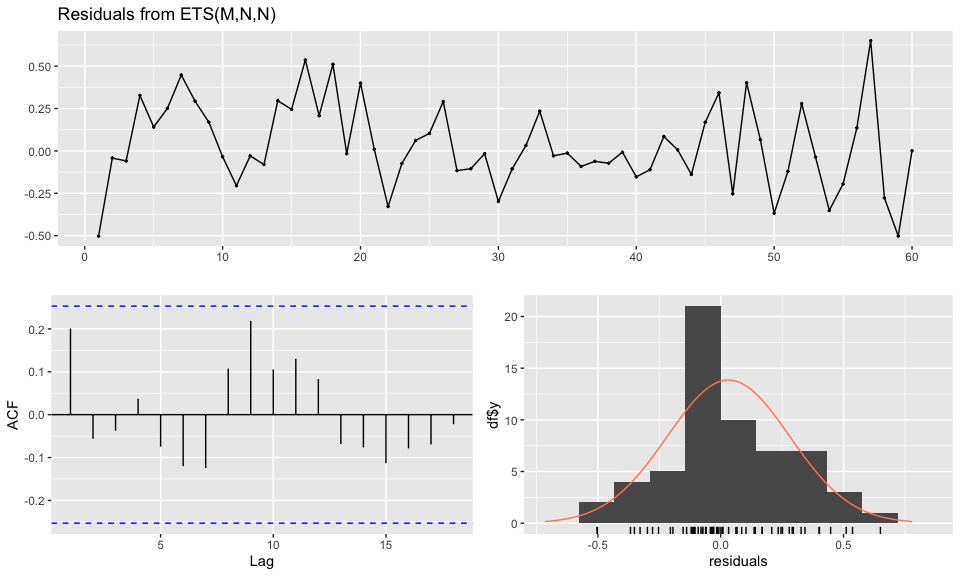
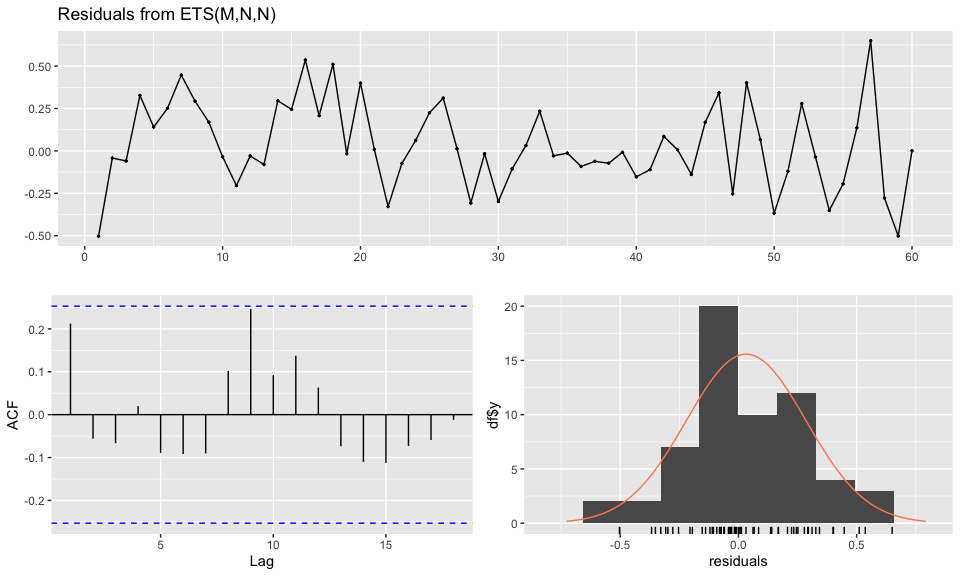
daily update

diff --git a/kenai_sockeye_counts.md b/kenai_sockeye_counts.md
@@ -2,7 +2,7 @@ Kenai River Sockeye Salmon Count Forecasting: Daily Fish Count
 Predictions
 ================
 Joe Hicks
-updated: 2025-07-25
+updated: 2025-07-29
 
 - [Summary](#summary)
 - [Data Loading & Preparation](#data-loading--preparation)
@@ -148,13 +148,13 @@ peak_days |>
 
 | peak_rank | date_2025  | julian_day | avg_count | peak_category  |
 |----------:|:-----------|-----------:|----------:|:---------------|
-|         1 | 2025-07-21 |        202 |     97617 | Highest Peaks  |
-|         2 | 2025-07-20 |        201 |     96731 | Highest Peaks  |
-|         3 | 2025-07-26 |        207 |     91785 | Highest Peaks  |
-|         4 | 2025-07-27 |        208 |     81109 | Highest Peaks  |
-|         5 | 2025-07-28 |        209 |     72584 | Highest Peaks  |
-|         6 | 2025-07-29 |        210 |     71401 | High Peaks     |
-|         7 | 2025-07-25 |        206 |     71100 | High Peaks     |
+|         1 | 2025-07-27 |        208 |    104844 | Highest Peaks  |
+|         2 | 2025-07-26 |        207 |    103516 | Highest Peaks  |
+|         3 | 2025-07-21 |        202 |     97617 | Highest Peaks  |
+|         4 | 2025-07-20 |        201 |     96731 | Highest Peaks  |
+|         5 | 2025-07-25 |        206 |     78935 | Highest Peaks  |
+|         6 | 2025-07-28 |        209 |     72584 | High Peaks     |
+|         7 | 2025-07-29 |        210 |     71401 | High Peaks     |
 |         8 | 2025-07-18 |        199 |     70256 | High Peaks     |
 |         9 | 2025-07-19 |        200 |     69080 | High Peaks     |
 |        10 | 2025-07-22 |        203 |     65574 | High Peaks     |
@@ -195,7 +195,7 @@ tidy(ets_model) |>
 
 | method     |     aic | sigma2 |  loglik |
 |:-----------|--------:|-------:|--------:|
-| ETS(M,N,N) | 1330.08 |   0.06 | -662.04 |
+| ETS(M,N,N) | 1332.98 |   0.07 | -663.49 |
 
 ETS Model Summary
 
@@ -210,7 +210,7 @@ checkresiduals(ets_model)
     ##  Ljung-Box test
     ## 
     ## data:  Residuals from ETS(M,N,N)
-    ## Q* = 10.517, df = 10, p-value = 0.3964
+    ## Q* = 10.86, df = 10, p-value = 0.3685
     ## 
     ## Model df: 0.   Total lags used: 10
 
@@ -405,11 +405,11 @@ predicted_peaks_updated |>
 
 | peak_rank | date_2025 | month_day | predicted_count | adjusted_prediction | data_status |
 |---:|:---|:---|---:|---:|:---|
-| 1 | 2025-07-27 | 07-27 | 91783 | 327475 | Future prediction |
-| 2 | 2025-07-28 | 07-28 | 81110 | 289395 | Future prediction |
-| 3 | 2025-07-29 | 07-29 | 72585 | 258977 | Future prediction |
-| 4 | 2025-07-30 | 07-30 | 71401 | 254753 | Future prediction |
-| 5 | 2025-07-26 | 07-26 | 71098 | 253672 | Future prediction |
+| 1 | 2025-07-27 | 07-27 | 247250 | 247250 | Observed 2025 |
+| 2 | 2025-07-21 | 07-21 | 247093 | 247093 | Observed 2025 |
+| 3 | 2025-07-28 | 07-28 | 81110 | 242842 | Available (not yet observed) |
+| 4 | 2025-07-29 | 07-29 | 72585 | 217318 | Available (not yet observed) |
+| 5 | 2025-07-30 | 07-30 | 71401 | 213774 | Future prediction |
 
 Top 5 Predicted Peak Days for 2025
 
@@ -616,6 +616,6 @@ kable(true_accuracy_metrics)
 
 | n_observations | mean_abs_error | median_abs_error | mean_pct_error |  rmse |
 |---------------:|---------------:|-----------------:|---------------:|------:|
-|             24 |          50313 |            22035 |           56.5 | 72370 |
+|             27 |          57143 |            26493 |             57 | 78500 |
 
 ------------------------------------------------------------------------
